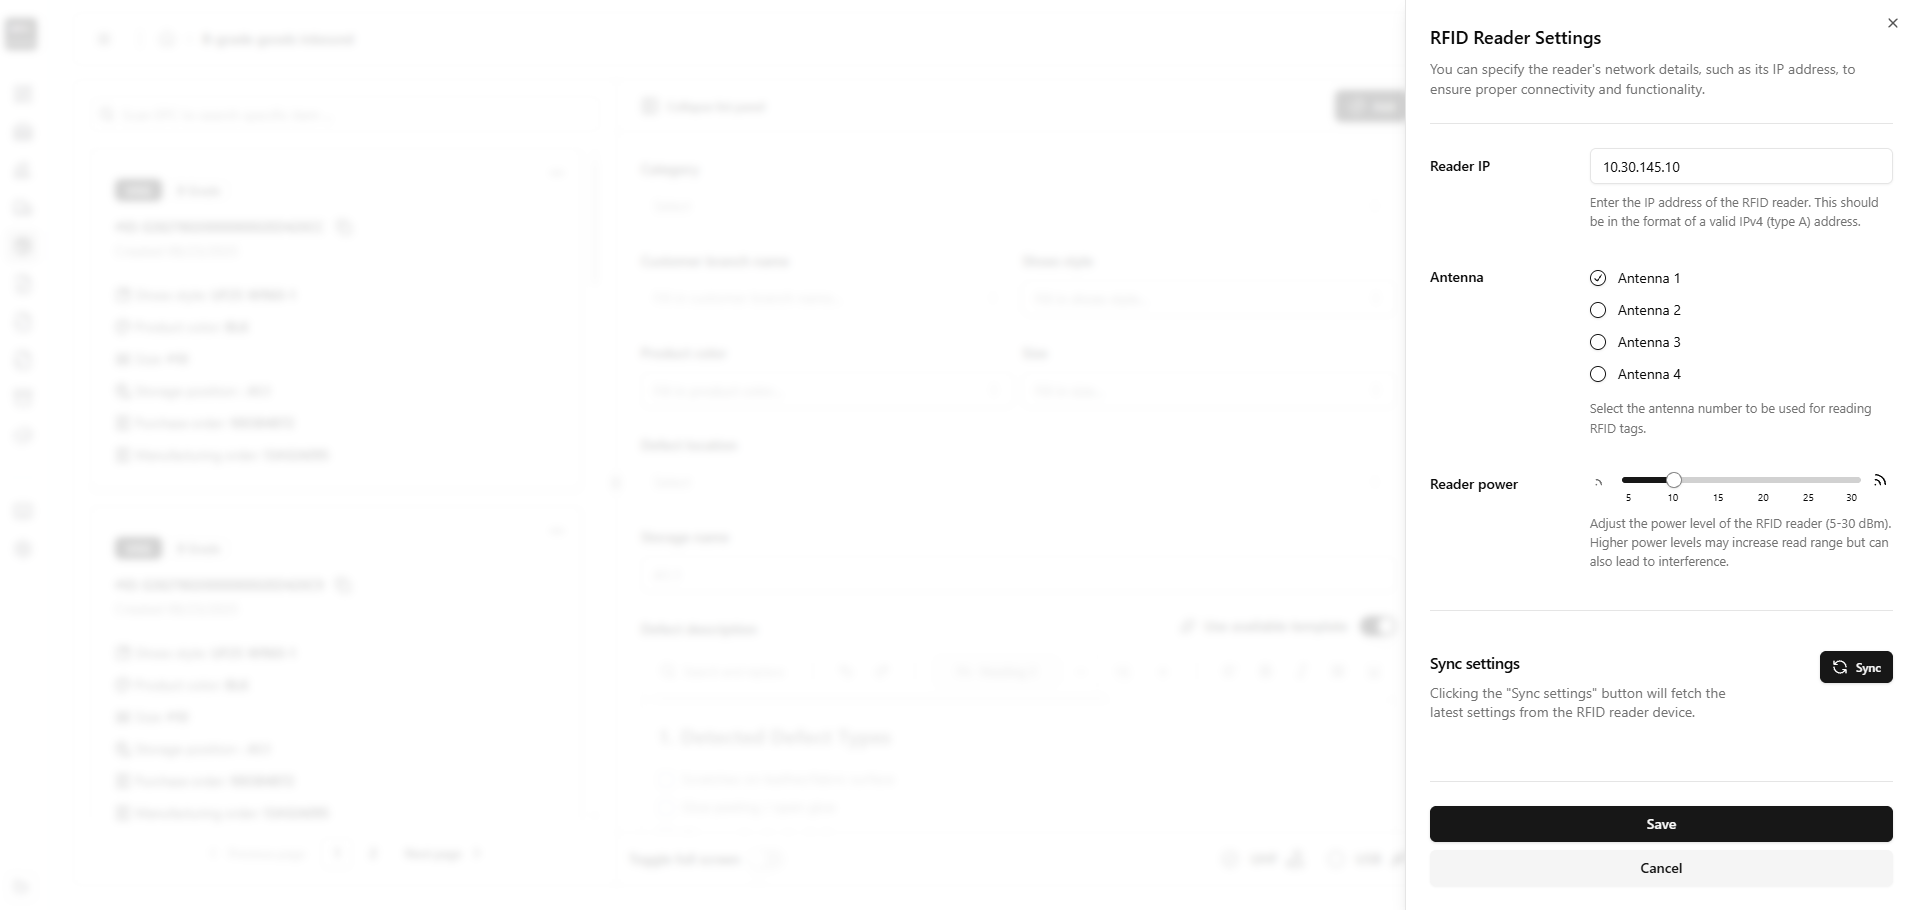
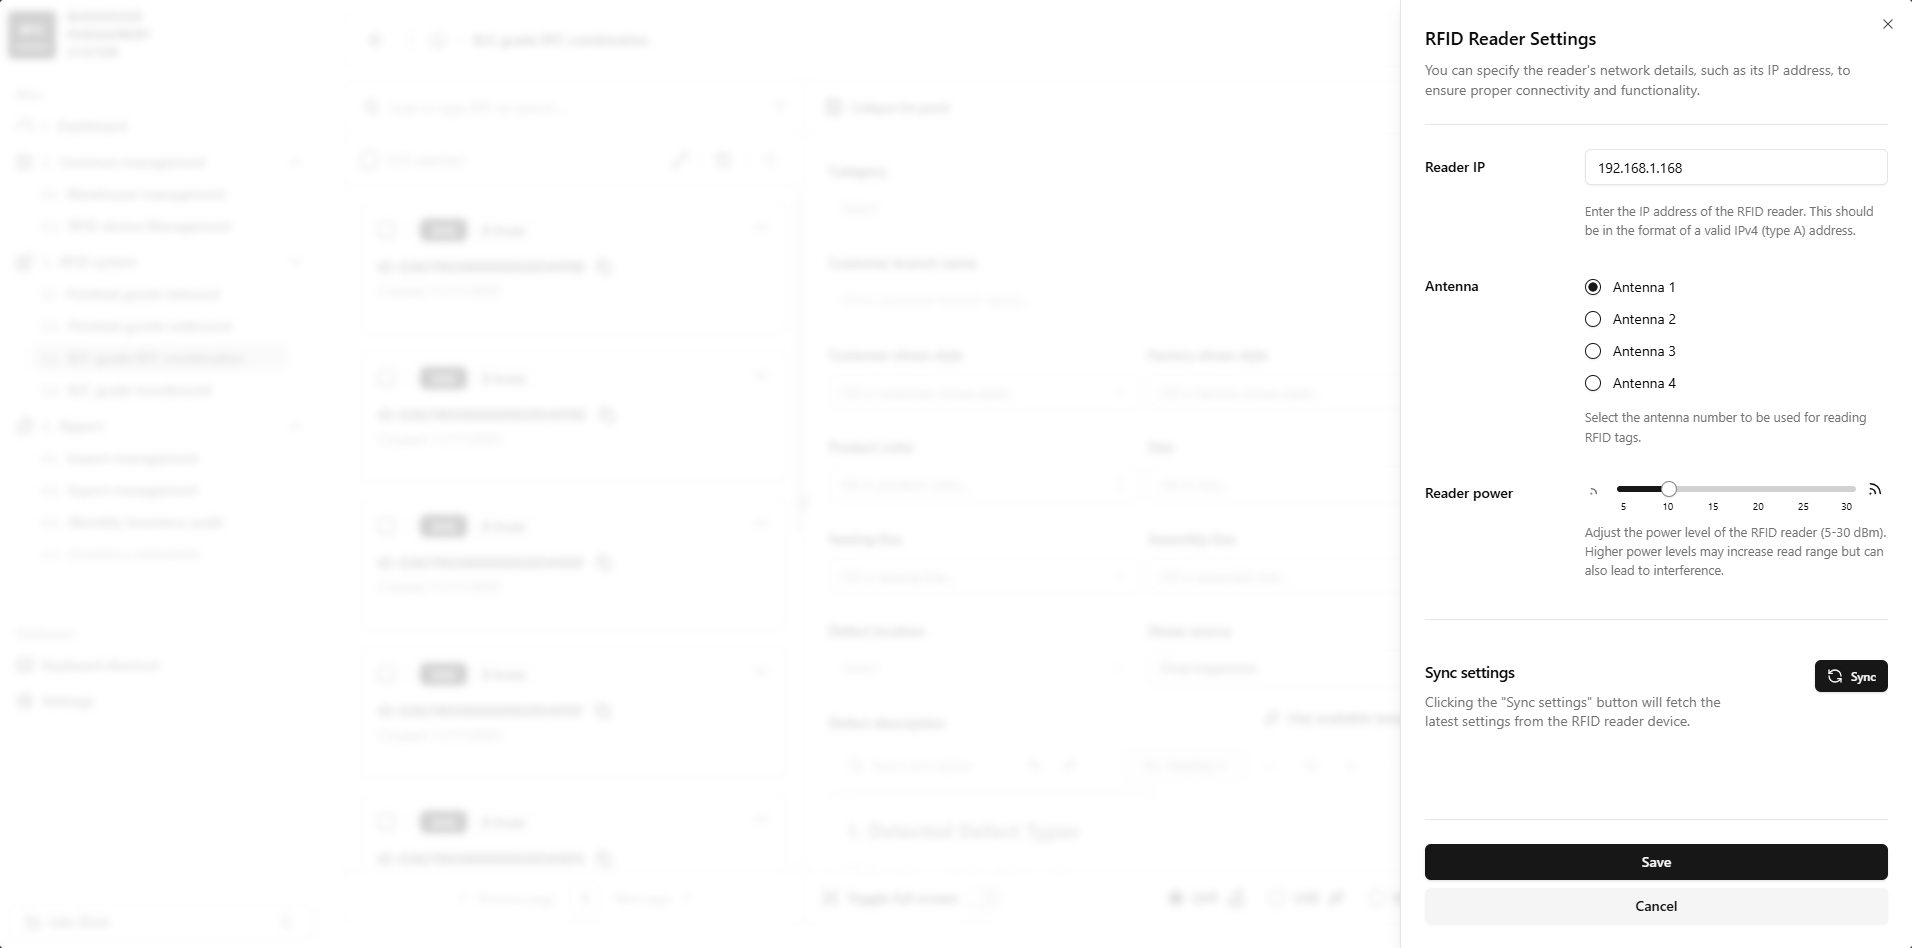
feat: add IP address retrieval instructions to Mosquitto configuration documentation

diff --git a/src/app/(public)/rfid-agent/docs/-components/search-dialog.tsx b/src/app/(public)/rfid-agent/docs/-components/search-dialog.tsx
@@ -1,4 +1,3 @@
-import { navigationConfig } from '@/app/(features)/-configs/navigation.config'
 import { PresetBreakPoints } from '@/common/constants/enums'
 import useMediaQuery from '@/common/hooks/use-media-query'
 import {
@@ -12,7 +11,6 @@ import {
 	CommandItem,
 	CommandList,
 	CommandSeparator,
-	CommandShortcut,
 	Icon,
 	Typography
 } from '@/components/ui'
@@ -35,7 +33,7 @@ const SearchDialog: React.FC = () => {
 		setOpen(true)
 	})
 
-	const filteredItems = Object.values(navigationConfig)
+	const filteredItems = Object.values(menuGroups)
 		.flat()
 		.filter((item) =>
 			String(t(item.title, { defaultValue: item.title }))
@@ -76,13 +74,9 @@ const SearchDialog: React.FC = () => {
 							{!searchTerm ? (
 								<Fragment>
 									<CommandGroup heading='RFID Agent'>
-										{menuGroups.rfidAgent.map((item, index) => (
-											<CommandItem asChild className='h-9 text-sm' key={index}>
-												<Link
-													to='/rfid-agent/docs'
-													hash={item.hash}
-													href={item.href}
-													onClick={() => setOpen(false)}>
+										{menuGroups.rfidAgent.map((item) => (
+											<CommandItem key={item.hash} asChild className='h-8 text-sm' value={item.hash}>
+												<Link hash={item.hash} onClick={() => setOpen(false)}>
 													{t(item.title, { defaultValue: item.title })}
 												</Link>
 											</CommandItem>
@@ -90,13 +84,9 @@ const SearchDialog: React.FC = () => {
 									</CommandGroup>
 									<CommandSeparator />
 									<CommandGroup heading='Eclipse Mosquitto'>
-										{menuGroups.mosquitto.map((item, index) => (
-											<CommandItem asChild className='text-sm' key={index}>
-												<Link
-													to='/rfid-agent/docs'
-													hash={item.hash}
-													href={item.href}
-													onClick={() => setOpen(false)}>
+										{menuGroups.mosquitto.map((item) => (
+											<CommandItem key={item.hash} asChild className='h-8 text-sm' value={item.hash}>
+												<Link hash={item.hash} onClick={() => setOpen(false)}>
 													{t(item.title, { defaultValue: item.title })}
 												</Link>
 											</CommandItem>
@@ -107,14 +97,9 @@ const SearchDialog: React.FC = () => {
 								filteredItems.length > 0 && (
 									<CommandGroup heading={`${filteredItems.length} results`}>
 										{filteredItems.map((item) => (
-											<CommandItem className='h-8' key={item.id} asChild>
-												<Link
-													className='flex items-center gap-x-2'
-													to={item.url}
-													onClick={() => setOpen(false)}>
-													<Icon name={item.icon} />
+											<CommandItem key={item.hash} className='h-8 text-sm' value={item.hash} asChild>
+												<Link hash={item.hash} onClick={() => setOpen(false)}>
 													{t(item.title, { defaultValue: item.title })}
-													<CommandShortcut>{String(item.keybinding).split('.').join('+')}</CommandShortcut>
 												</Link>
 											</CommandItem>
 										))}

diff --git a/src/app/(public)/rfid-agent/docs/-components/mosquitto-configuration.tsx b/src/app/(public)/rfid-agent/docs/-components/mosquitto-configuration.tsx
@@ -63,6 +63,48 @@ const MosquittoConfiguration: React.FC = () => {
 				</li>
 				<li>
 					<Typography className='inline'>
+						In order to get your machine&apos;s IP address, press{' '}
+						<Kbd className='mx-1'>
+							<KbdKey aria-label='Meta'>Win</KbdKey>
+							<KbdKey>R</KbdKey>
+						</Kbd>
+						, type <code>&quot;cmd&quot;</code> and hit{' '}
+						<Kbd className='mx-1'>
+							<KbdKey aria-label='Meta'> ↳ Enter</KbdKey>
+						</Kbd>{' '}
+						to open <b>Command Prompt</b>. After that, run the following command to get your IP address.
+					</Typography>
+					<Terminal
+						command={
+							/* template */ `
+								ipconfig
+								
+							`
+						}
+						className='my-4'>
+						Ethernet adapter:
+						<br />
+						Connection-specific DNS Suffix . :
+						<br />
+						Link-local IPv6 Address . . . . . : xxxx::xxxx:xxxx:xxxx:xxxx%6
+						<br />
+						IPv4 Address. . . . . . . . . . . : 10.xxx.xxx.xxx // Copy this one
+						<br />
+						Subnet Mask . . . . . . . . . . . : 255.255.xxx.xxx
+						<br />
+						IPv4 Address. . . . . . . . . . . : xxx.xxx.xxx // Ignore this one
+						<br />
+						Subnet Mask . . . . . . . . . . . : 255.255.xxx.xxx
+						<br />
+						Default Gateway . . . . . . . . . : 10.xxx.xxx.xxx
+					</Terminal>
+					<Typography variant='blockquote' className='!mb-4'>
+						Look for the <code>IPv4 Address</code> under your active network connection. This is the IP address
+						you need to use in the <code>mosquitto.conf</code> file.
+					</Typography>
+				</li>
+				<li>
+					<Typography className='inline'>
 						Press{' '}
 						<Kbd className='mx-1'>
 							<KbdKey aria-label='Meta'>Win</KbdKey>

diff --git a/src/app/(public)/rfid-agent/docs/-components/nav-header.tsx b/src/app/(public)/rfid-agent/docs/-components/nav-header.tsx
@@ -1,6 +1,5 @@
 import SearchDialog from './search-dialog'
 
-import { LanguageDropdown, LanguageSelect } from '@/app/-components/-shared/language-selector'
 import { ThemeSwitcher } from '@/app/-components/-shared/theme-switcher'
 import ThemeToggle from '@/app/-components/-shared/theme-toggle'
 import useMediaQuery from '@/common/hooks/use-media-query'
@@ -42,9 +41,9 @@ const NavHeader: React.FC = () => {
 					<li>
 						<SearchDialog />
 					</li>
-					<li className='min-w-36 basis-36 sm:min-w-fit md:min-w-fit'>
+					{/* <li className='min-w-36 basis-36 sm:min-w-fit md:min-w-fit'>
 						{!isLargeScreen ? <LanguageDropdown /> : <LanguageSelect />}
-					</li>
+					</li> */}
 					<li>{!isLargeScreen ? <ThemeToggle /> : <ThemeSwitcher />}</li>
 					{!isLargeScreen && (
 						<li>
